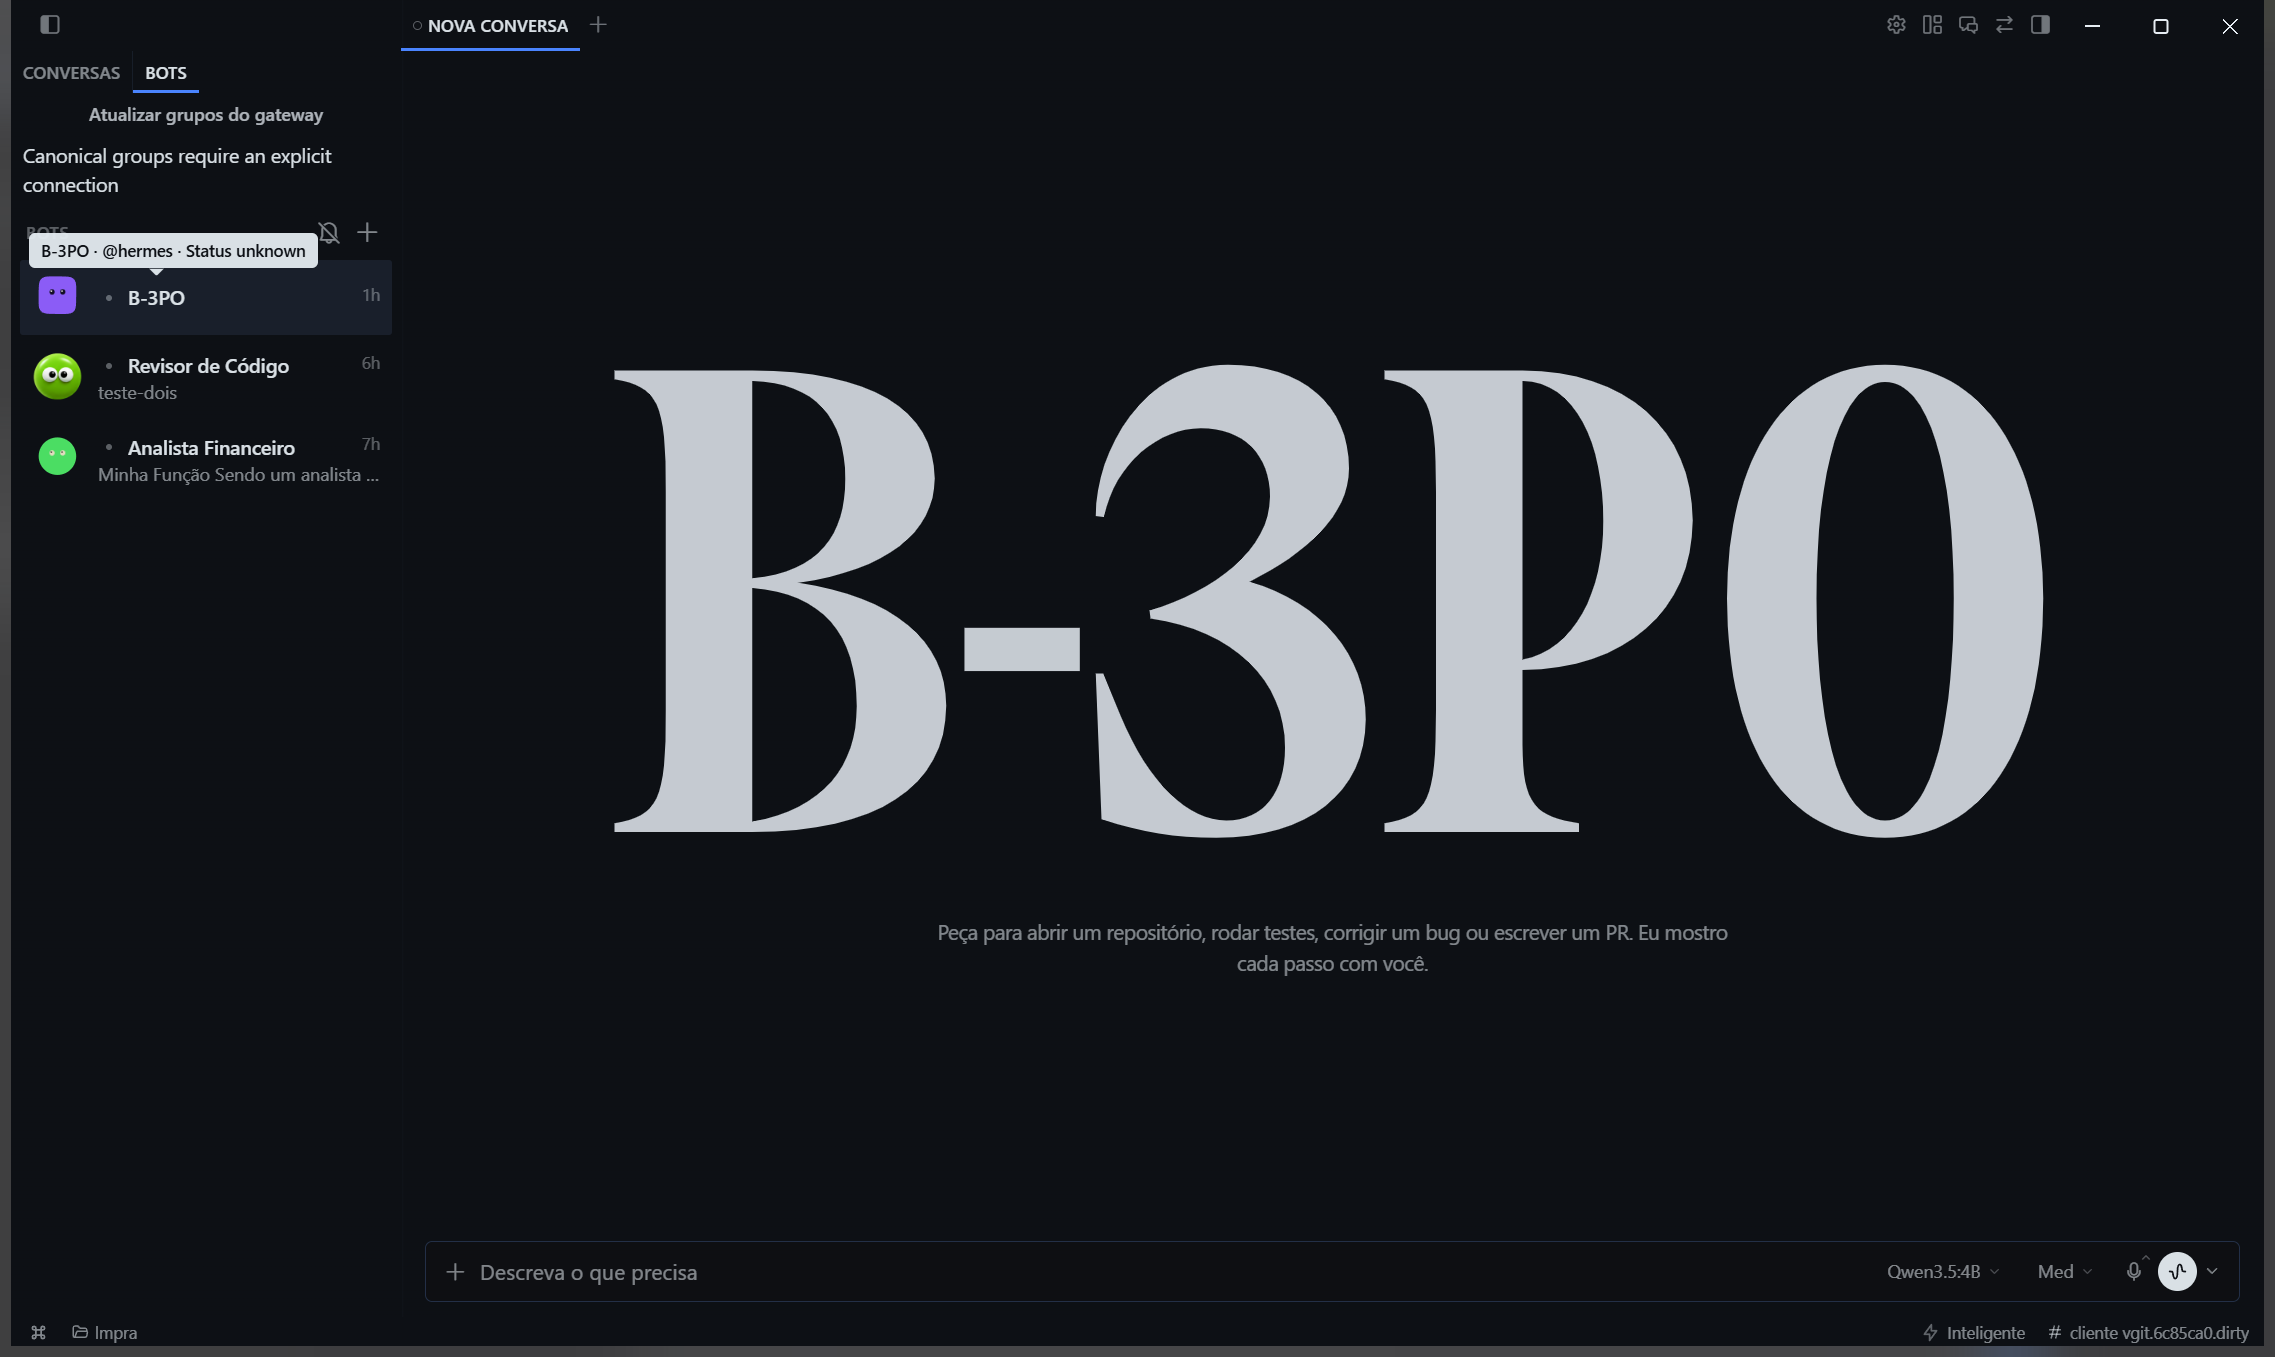
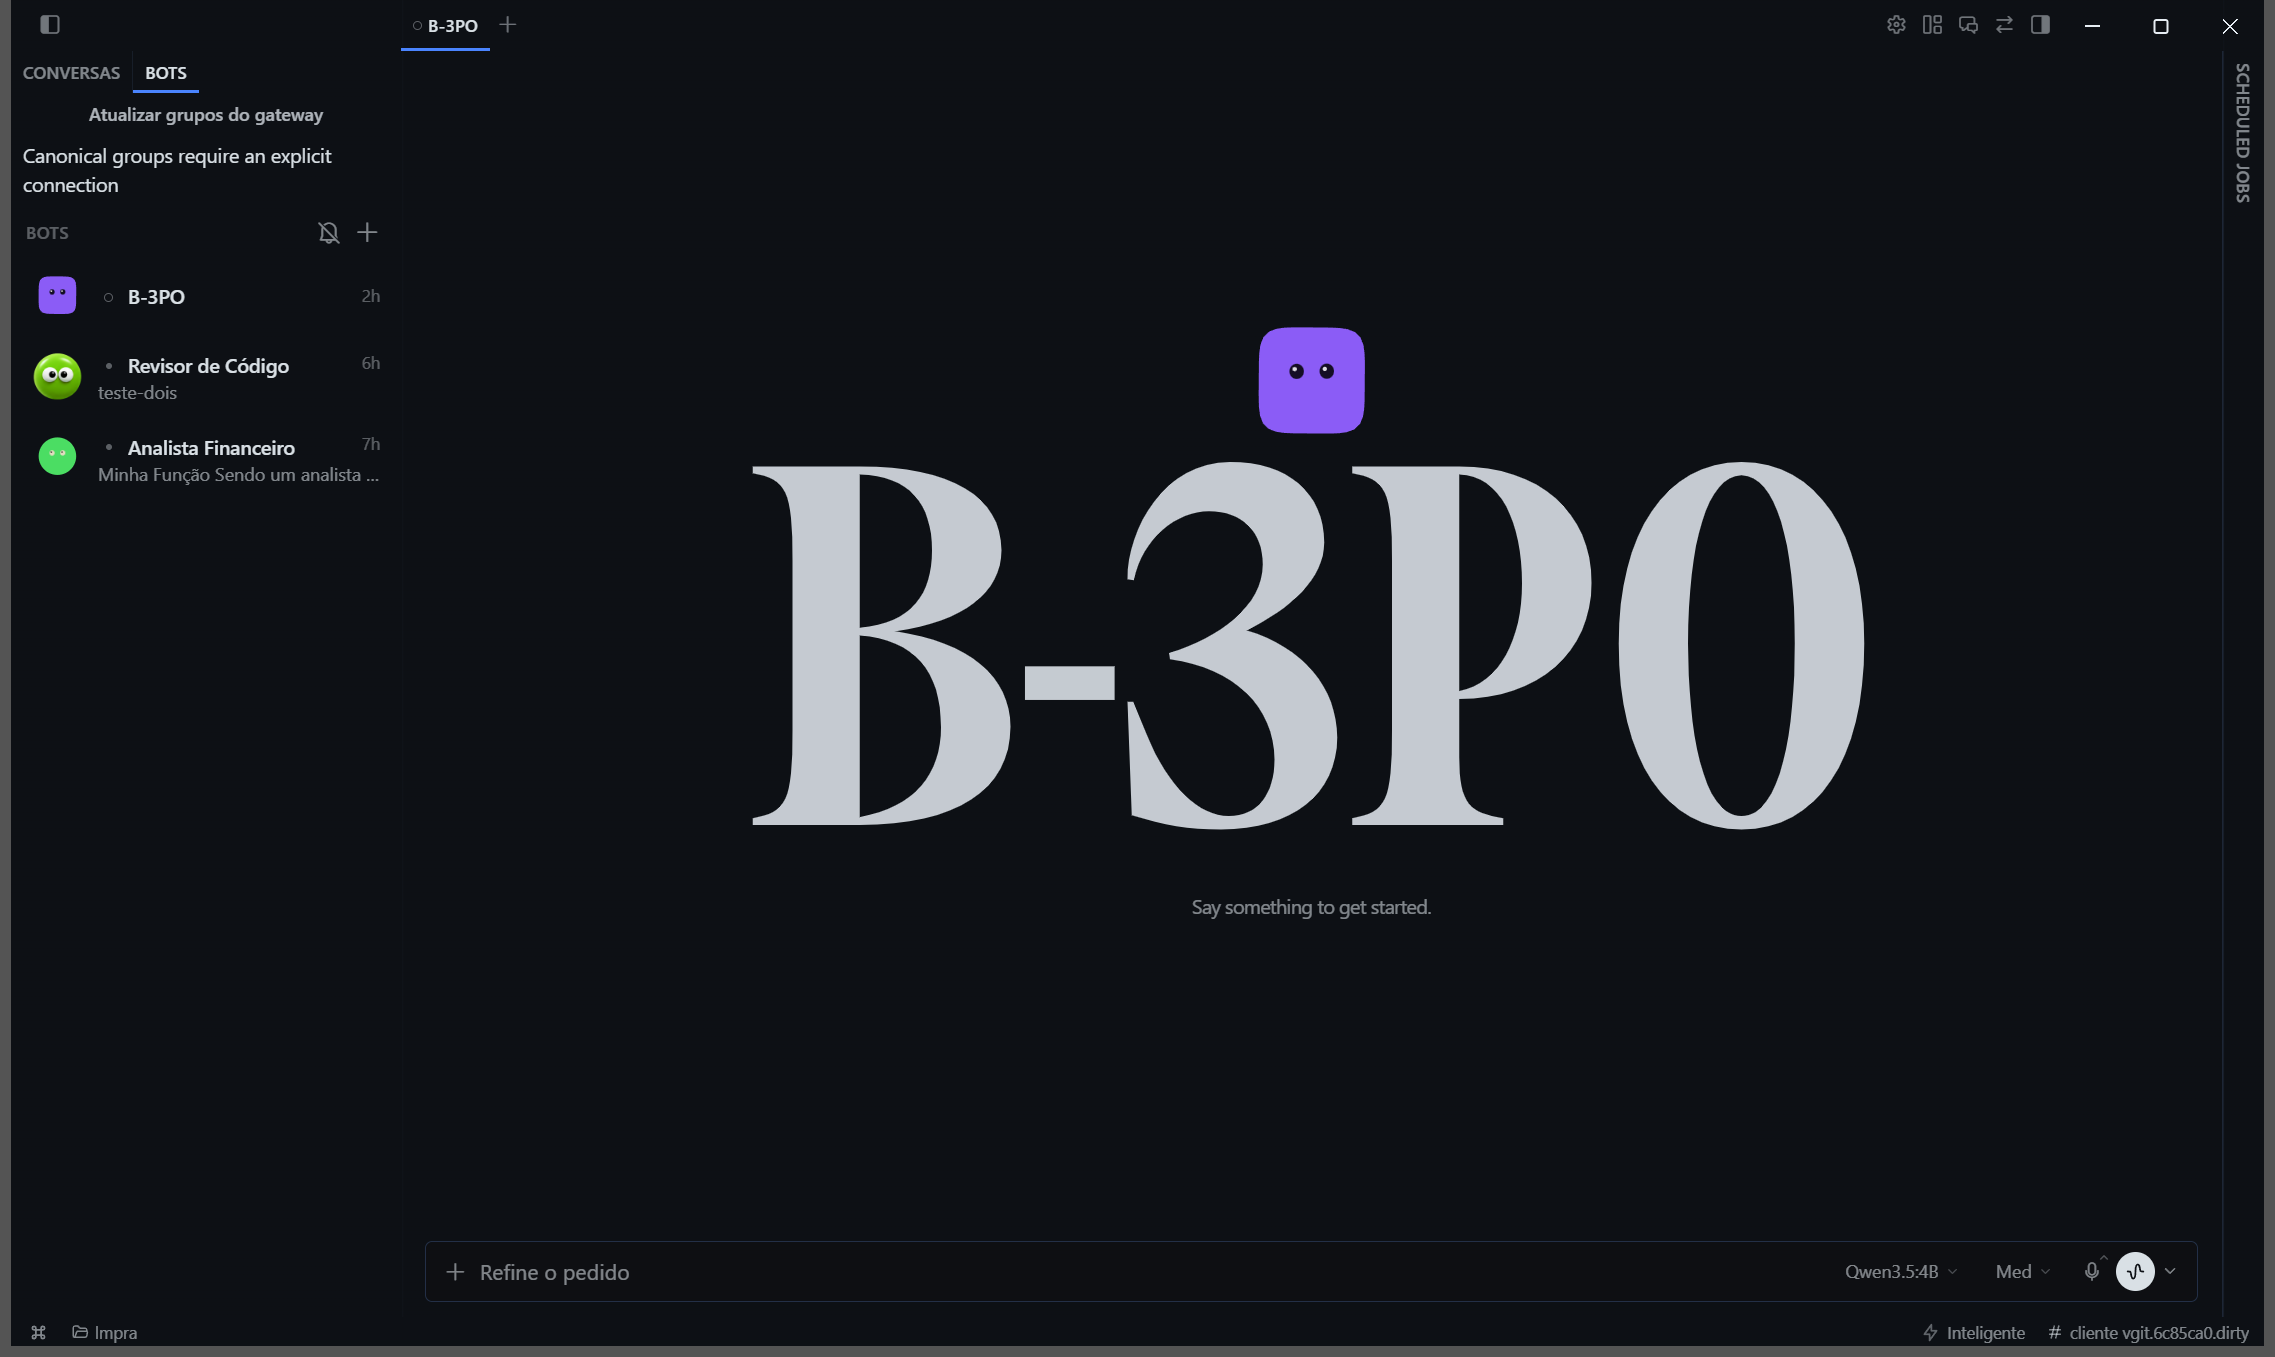
fix(bots): hero do chat de bot mostra o robo da marca (a rodada 95 mexeu no arquivo errado)
A rodada 95 mudou components/chat/intro.tsx (splash do rascunho novo), mas a tela das capturas e
plugins/hermes-bots/chat-empty.tsx (BotChatEmpty). Rebuild + screenshot provaram que a mudanca nao aparecia.

Agora no chat de bot: arte do robo da marca quando o bot nao escolheu mascote (antes o padrao deterministico
sorteava uma estrela roxa para "B-3PO"); mascote escolhido quando existe; UM rosto e nao dois (o BotFace
pequeno saiu); nome em corpo de texto; altura limitada por viewport, sem encostar no compositor.

EVIDENCIA: docs/b3po/evidence/hero-mascote-dev.png — app empacotado contra o backend real.
PENDENTE: robo ainda estatico (so flutuacao CSS); movimento real pede frames (GIF do dono nao esta no repo).

MEDIDO: plugin hermes-bots 117 arquivos / 962 testes + 1 pulado; tsc limpo; gate 14 ok.

diff --git a/apps/desktop/src/plugins/hermes-bots/chat-empty.tsx b/apps/desktop/src/plugins/hermes-bots/chat-empty.tsx
@@ -7,21 +7,19 @@
  * says whose it is.
  */
 
-import { host, useValue, Wordmark } from '@hermes/plugin-sdk'
+import { host, useValue } from '@hermes/plugin-sdk'
 
-import { avatarColor, botAppearance, BotFace } from './avatar'
+import { botAppearance } from './avatar'
 import { isBackfilledFacePng } from './avatar-image'
 import { $botMeta, $lastRoster } from './data'
 import { useBots } from './i18n'
 import { displayName } from './labels'
+import { rosterMascotSrc } from './mascots'
 import { botRosterMeta } from './routing'
 import type { RosterRow } from './types'
 
-const FACE_SIZE = 96
-const FACE_GAP = 16
-/** What the face costs the stack in height — the offset that puts the name on
- *  the center line is derived from it, so the two can never drift apart. */
-const FACE_BLOCK = FACE_SIZE + FACE_GAP
+/** Robô da marca para bot sem mascote escolhido: identidade B-3PO, não a estrela determinística. */
+const BRAND_ROBOT = `${import.meta.env.BASE_URL}b3po-mark-dark.png`
 
 /** The bot whose canonical chat this session is, if it is one. Matches the
  *  durable registry id or the compression-lineage tip, the same pair the
@@ -83,26 +81,23 @@ export function BotChatEmpty({ sessionId }: { sessionId: string }) {
     <div
       className="pointer-events-none flex w-full min-w-0 flex-col items-center justify-center px-0.5 py-6 text-center text-muted-foreground sm:px-6 lg:px-8"
       data-slot="bot_chat_empty"
-      // The name reads as the title of the chat, so it — not the stack as a
-      // whole — is what should sit on the optical center line. Lifting the
-      // stack by half the face's block does exactly that: the face hangs above
-      // the line and the text lands on it, the same balance the splash strikes
-      // with nothing above its lettering.
-      style={{ transform: `translateY(-${FACE_BLOCK / 2}px)` }}
+
     >
       <div className="w-full min-w-0">
-        <div className="flex justify-center" style={{ marginBottom: FACE_GAP }}>
-          <BotFace
-            color={avatarColor(color, bot.name)}
-            image={photo ? image : null}
-            mood="idle"
-            name={bot.name}
-            shape={shape}
-            size={FACE_SIZE}
-          />
-        </div>
 
-        <Wordmark className="mb-1" text={name} width="calc(80% - 1rem)" />
+        {/*
+         * A arte do mascote no lugar do lettering gigante: `.fit-text` dimensiona pela LARGURA e, numa janela
+         * baixa, o nome do bot ocupava meia tela e encostava no compositor. O nome continua ali, em corpo de
+         * texto, que é o que o leitor de tela lê.
+         */}
+        <img
+          alt=""
+          aria-hidden
+          className="hb-mascot-blink mx-auto mb-3 block h-[min(9rem,26vh)] w-auto rounded-[22%] object-contain"
+          src={meta?.mascot_id ? rosterMascotSrc(meta.mascot_id, bot.name) : BRAND_ROBOT}
+        />
+
+        <p className="m-0 text-center text-lg font-medium leading-normal tracking-tight">{name}</p>
 
         <p className="m-0 text-center leading-normal tracking-tight">{b.bot.chatEmpty}</p>
       </div>

diff --git a/apps/desktop/src/plugins/hermes-bots/avatar.test.tsx b/apps/desktop/src/plugins/hermes-bots/avatar.test.tsx
@@ -194,7 +194,7 @@ describe('an SDK that predates blobatarSvg', () => {
 })
 
 it('mascote em PNG pisca por animação e desloca a piscada por nome', () => {
-  const primeiro = render(<BotFace image="/avatars/bit.png" name="Revisor" />)
+  const primeiro = render(<BotFace color="#6c5ce7" image="/avatars/bit.png" name="Revisor" shape="squircle" />)
   const img = primeiro.container.querySelector('img')!
 
   expect(img.className).toContain('hb-mascot-blink')
@@ -204,7 +204,7 @@ it('mascote em PNG pisca por animação e desloca a piscada por nome', () => {
 
   cleanup()
 
-  const segundo = render(<BotFace image="/avatars/bit.png" name="Analista Financeiro" />)
+  const segundo = render(<BotFace color="#6c5ce7" image="/avatars/bit.png" name="Analista Financeiro" shape="squircle" />)
   const outra = segundo.container.querySelector('img')!
 
   expect(outra.style.animationDelay).toBe(mascotDelayForTest('Analista Financeiro'))

diff --git a/docs/b3po/ARTIFACT-MANIFEST.md b/docs/b3po/ARTIFACT-MANIFEST.md
@@ -3,12 +3,12 @@
 Manifesto dos artefatos **deste** build. Manifesto com dado velho engana mais do que ajuda: os
 hashes abaixo foram calculados nesta máquina a partir dos arquivos listados; nada é estimado.
 
-commit `ec1f59cdbb` · branch `b3po-brand` · 155 commits sobre `main` · gerado em 2026-11-03 21:22 UTC
+commit `c2c719ae80` · branch `b3po-brand` · 161 commits sobre `main` · gerado em 2026-11-03 21:50 UTC
 
 | Plataforma | Formato | Arquivo | Tamanho | SHA-256 | Construído |
 |---|---|---|---|---|---|
[7 lines of base64/hex data omitted]

diff --git a/docs/b3po/DESKTOP-RELEASE-REPORT.md b/docs/b3po/DESKTOP-RELEASE-REPORT.md
@@ -584,3 +584,26 @@ uníssono. `prefers-reduced-motion: reduce` desliga.
 
 **É aproximação, não pálpebra**: piscada fiel exige frames por mascote (ou o GIF do dono, que ainda não está no
 repositório). Registrado aqui para não vender como mais do que é.
+
+## Rodada 97 — o herói do chat de bot: o robô, e de verdade desta vez
+
+A rodada 95 mexeu em `components/chat/intro.tsx` — o splash do **rascunho novo**. Só que a tela das capturas do
+dono era outra: `plugins/hermes-bots/chat-empty.tsx` (`BotChatEmpty`), que desenhava o rosto pequeno + `.fit-text`
+com o nome do bot. Rebuild + captura provaram que minha mudança não aparecia em lugar nenhum: **corrigi o arquivo
+errado**.
+
+Agora, no chat de bot:
+
+- **arte do robô da marca** quando o bot não escolheu mascote — antes o padrão determinístico sorteava uma
+  **estrela roxa** para o nome "B-3PO";
+- o mascote escolhido, quando existe (`rosterMascotSrc`);
+- **um** rosto, não dois: o `BotFace` pequeno saiu (squircle + estrela juntos parecia defeito);
+- nome do bot em corpo de texto e o "Say something to get started." embaixo;
+- altura limitada por viewport, sem encostar no compositor.
+
+Evidência: `docs/b3po/evidence/hero-mascote-dev.png` — app empacotado contra o backend real.
+
+### Pendente aqui
+
+O robô continua **estático** (só a flutuação CSS). Movimento real pede frames — o GIF do dono não está no
+repositório. E a arte pode ficar maior: ajusto com nova captura.
